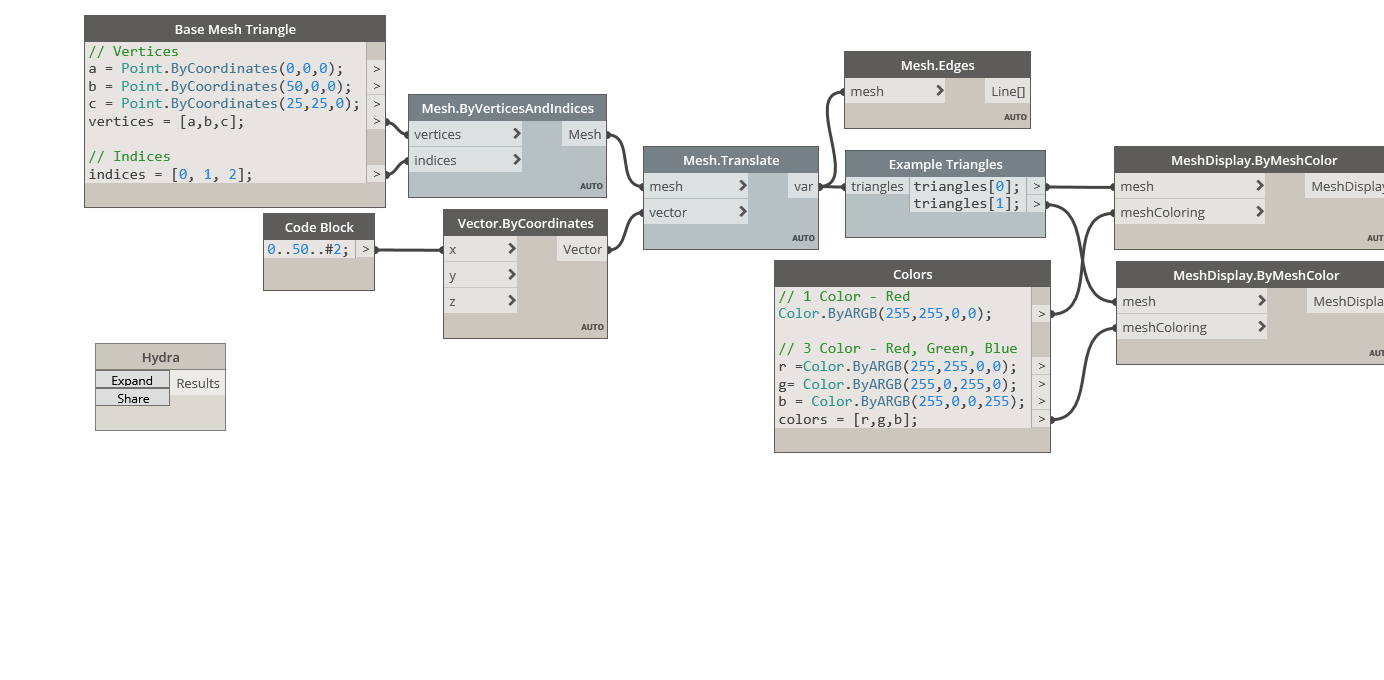
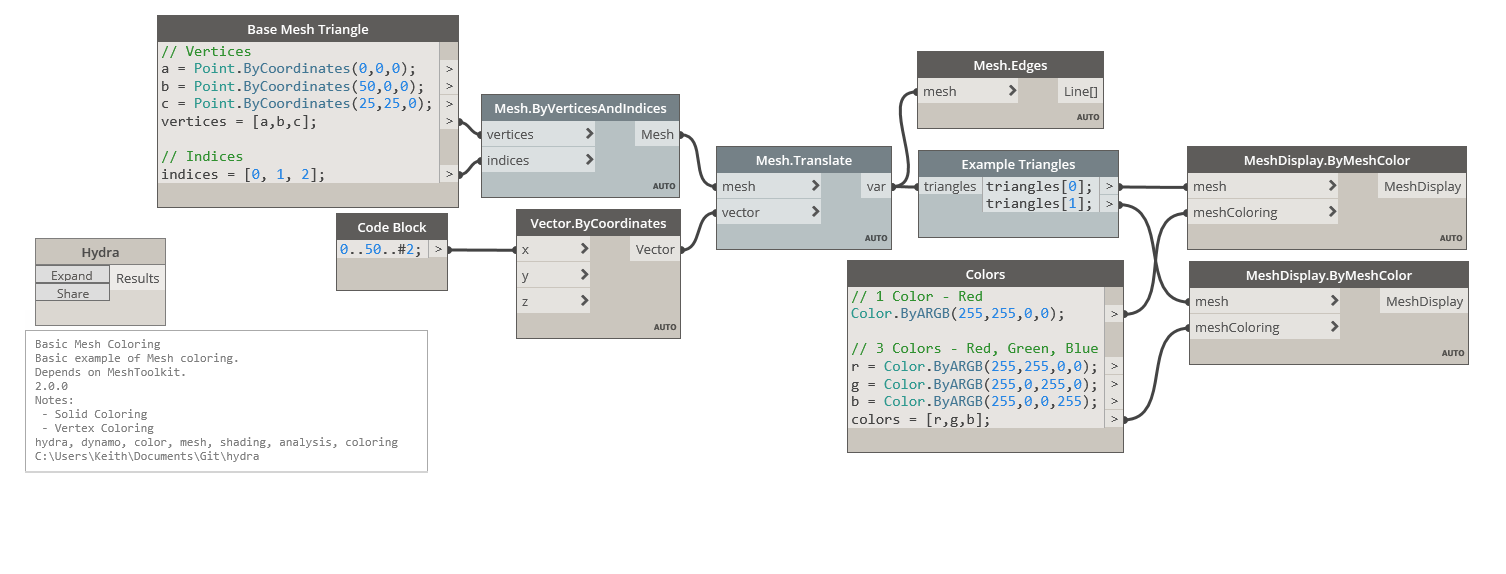
update example

diff --git a/Basic Mesh Coloring/README.md b/Basic Mesh Coloring/README.md
@@ -1,5 +1,6 @@
 ### Description
-This is an example shows the basics of mesh coloring.
+Basic example of Mesh coloring.
+Depends on MeshToolkit.
 ### Version
 File Version: 2.0.0
 ### Tags
